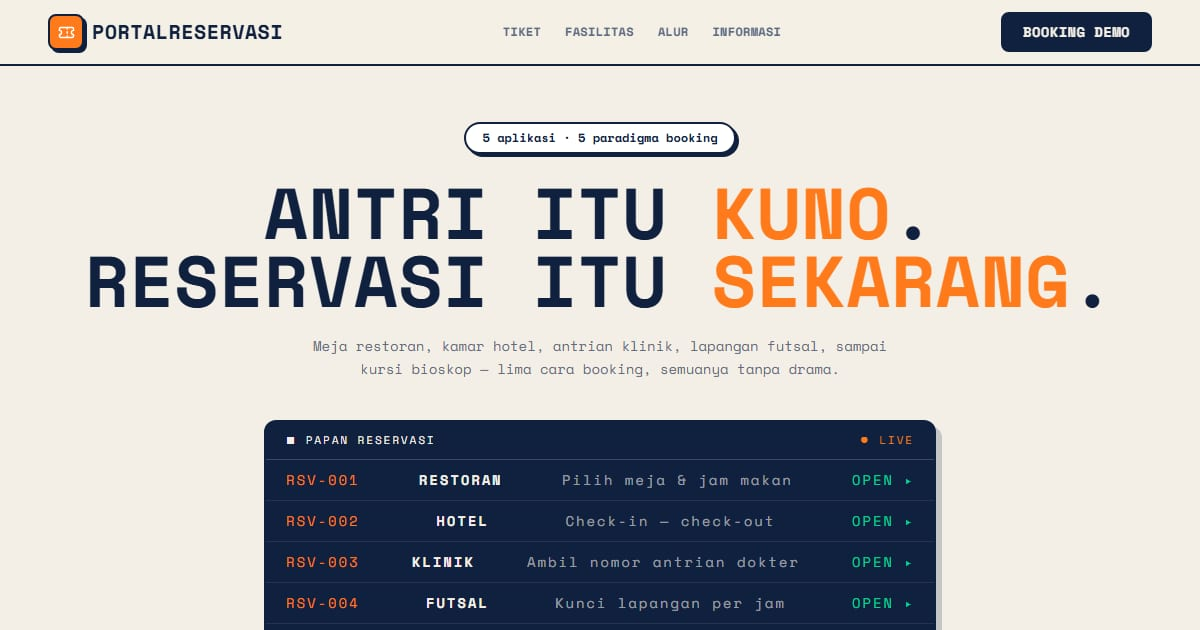
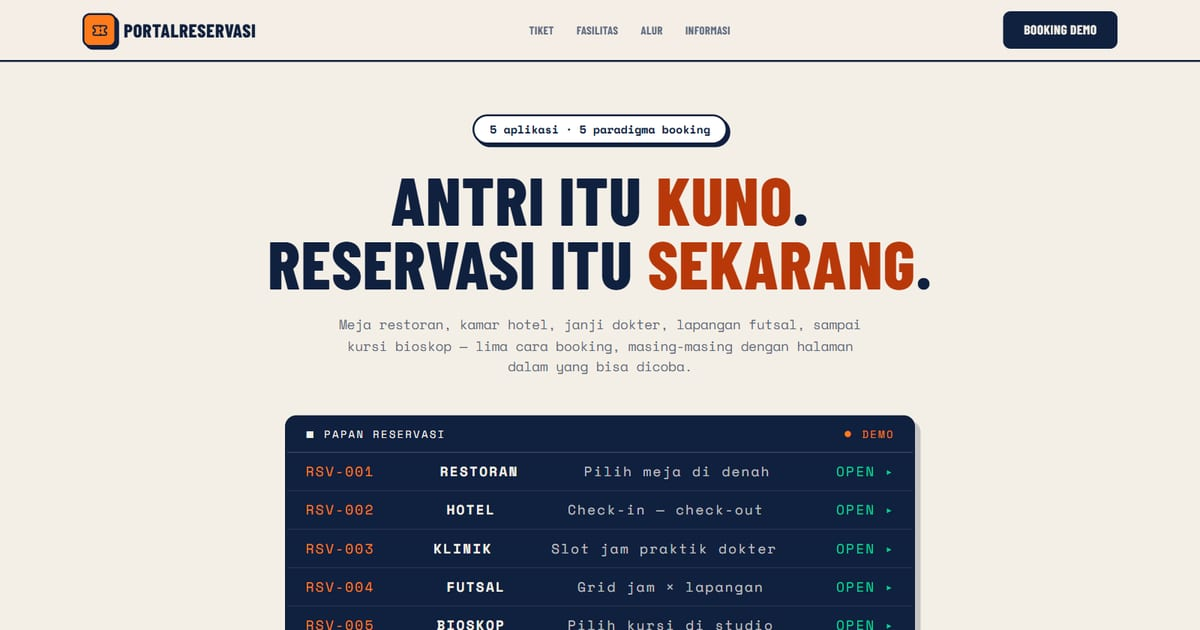
Perbarui katalog: merek baru, halaman dalam, klaim jujur, kontras
- Pratinjau 5 aplikasi diambil ulang (WebP), PNG lama dihapus
- Nama merek fiktif baru dan tautan "coba" ke halaman dalam tiap aplikasi
- Fasilitas & FAQ jujur soal demo: pesanan hanya di peramban, WhatsApp
  dan basis data bersama baru ada saat dipasang
- Teks oranye di latar terang memakai #b8380a, bidang oranye bertulisan
  navy; label berkedip "LIVE" diganti "DEMO" statis; font var ke <html>

diff --git a/app/page.js b/app/page.js
@@ -9,11 +9,11 @@ const WA = 'https://wa.me/6281339908765?text=Halo%2C%20saya%20tertarik%20aplikas
 
 const FASILITAS = [
   { icon: LayoutGrid, title: 'Denah Interaktif', desc: 'Tamu memilih meja, kursi, atau slot langsung dari denah visual — bukan menebak dari daftar.' },
-  { icon: CalendarCheck, title: 'Slot Real-Time', desc: 'Jadwal yang penuh otomatis tertutup. Tidak ada dobel booking, tidak ada drama.' },
-  { icon: BellRing, title: 'Konfirmasi Instan', desc: 'Begitu tamu memesan, detail reservasi langsung terkirim — rapi dan tercatat.' },
-  { icon: ShieldCheck, title: 'Validasi Pesanan', desc: 'Formulir memastikan data lengkap sebelum submit; tak ada reservasi setengah jadi.' },
-  { icon: BarChart3, title: 'Ringkasan Harian', desc: 'Kamu tahu berapa kursi terisi hari ini dalam sekali pandang.' },
-  { icon: Smartphone, title: 'Ramah Ponsel', desc: 'Tamu memesan sambil rebahan — alur selesai kurang dari satu menit.' },
+  { icon: CalendarCheck, title: 'Jam sesuai WIB', desc: 'Tanggal dan jam dihitung di perangkat tamu dalam WIB; slot yang sudah lewat otomatis tertutup.' },
+  { icon: BellRing, title: 'Konfirmasi dengan kode', desc: 'Setiap pesanan mendapat kode dan ringkasan. Saat dipasang, ringkasan itu bisa diteruskan ke WhatsApp atau email usahamu.' },
+  { icon: ShieldCheck, title: 'Aturan usaha', desc: 'Hari libur, hari praktik, tarif akhir pekan, batas kursi per transaksi — semuanya aturan di data, bukan hiasan.' },
+  { icon: BarChart3, title: 'Halaman "punya saya"', desc: 'Tamu melihat dan membatalkan pesanannya sendiri, lengkap dengan batas batal gratis.' },
+  { icon: Smartphone, title: 'Ramah ponsel', desc: 'Diuji di lebar 360 px — denah, grid jadwal, dan peta kursi tetap bisa dipakai.' },
 ];
 
 const BOARDING = [
@@ -24,8 +24,8 @@ const BOARDING = [
 ];
 
 const INFO = [
-  { q: 'Apakah reservasi masuk ke WhatsApp saya?', a: 'Ya. Setiap reservasi diteruskan sebagai pesan WhatsApp terstruktur (nama, tanggal, slot, jumlah) langsung ke nomormu — tanpa perlu buka dashboard.' },
-  { q: 'Bagaimana mencegah dobel booking?', a: 'Slot yang sudah diambil otomatis dikunci dan hilang dari pilihan. Kamu juga bisa menutup slot manual, misalnya untuk acara privat.' },
+  { q: 'Apakah reservasi masuk ke WhatsApp saya?', a: 'Di demo, pesanan hanya disimpan di peramban pengunjung — tidak ada yang dikirim. Saat dipasang untuk usahamu, kami sambungkan ke WhatsApp, email, atau basis data supaya setiap pesanan sampai ke kamu.' },
+  { q: 'Bagaimana mencegah dobel booking?', a: 'Di demo, slot yang sudah terisi tertutup di perangkat yang sama. Versi terpasang memakai basis data bersama, jadi slot yang diambil satu tamu langsung tertutup untuk semua tamu.' },
   { q: 'Bisakah jam operasional dan kapasitas diatur?', a: 'Bisa penuh: hari libur, jam buka-tutup, jumlah meja/kamar/lapangan, hingga durasi per sesi — semua mengikuti aturan usahamu.' },
   { q: 'Usaha saya tidak ada di lima kategori itu — tetap bisa?', a: 'Tetap bisa. Lima template ini adalah paradigma (denah, kalender, antrian, grid jadwal, kursi). Hampir semua bisnis booking cocok dengan salah satunya — kami sesuaikan istilah dan alurnya.' },
 ];
@@ -38,14 +38,14 @@ export default function PortalReservasi() {
       <header className="sticky top-0 z-40 border-b-2 border-navy bg-kremr/90 backdrop-blur-xl">
         <nav className="mx-auto flex max-w-6xl items-center justify-between px-4 py-3 sm:px-6">
           <a href="#top" className="flex items-center gap-2 font-display text-xl font-extrabold uppercase tracking-wide">
-            <span className="grid h-9 w-9 place-items-center rounded-lg border-2 border-navy bg-oranyer text-white shadow-[3px_3px_0_var(--color-navy)]"><Ticket size={17} /></span>
+            <span className="grid h-9 w-9 place-items-center rounded-lg border-2 border-navy bg-oranyer text-navy shadow-[3px_3px_0_var(--color-navy)]"><Ticket size={17} /></span>
             PortalReservasi
           </a>
           <div className="hidden items-center gap-6 font-display text-xs font-bold uppercase tracking-wide text-mutedr md:flex" role="navigation" aria-label="Navigasi">
-            <a href="#tiket" className="transition hover:text-oranyer">Tiket</a>
-            <a href="#fasilitas" className="transition hover:text-oranyer">Fasilitas</a>
-            <a href="#boarding" className="transition hover:text-oranyer">Alur</a>
-            <a href="#info" className="transition hover:text-oranyer">Informasi</a>
+            <a href="#tiket" className="transition hover:text-oranyer-ink">Tiket</a>
+            <a href="#fasilitas" className="transition hover:text-oranyer-ink">Fasilitas</a>
+            <a href="#boarding" className="transition hover:text-oranyer-ink">Alur</a>
+            <a href="#info" className="transition hover:text-oranyer-ink">Informasi</a>
           </div>
           <a href={WA} target="_blank" rel="noopener noreferrer" className="rounded-lg border-2 border-navy bg-navy px-5 py-2 font-display text-sm font-bold uppercase tracking-wide text-kremr transition hover:bg-oranyer">
             Booking Demo
@@ -61,24 +61,24 @@ export default function PortalReservasi() {
               5 aplikasi · 5 paradigma booking
             </span>
             <h1 className="mt-6 font-display text-5xl font-extrabold uppercase leading-[0.95] sm:text-7xl">
-              Antri itu <span className="text-oranyer">kuno</span>.<br />Reservasi itu <span className="text-oranyer">sekarang</span>.
+              Antri itu <span className="text-oranyer-ink">kuno</span>.<br />Reservasi itu <span className="text-oranyer-ink">sekarang</span>.
             </h1>
             <p className="mx-auto mt-5 max-w-xl text-sm leading-relaxed text-mutedr">
-              Meja restoran, kamar hotel, antrian klinik, lapangan futsal, sampai kursi bioskop — lima cara booking, semuanya tanpa drama.
+              Meja restoran, kamar hotel, janji dokter, lapangan futsal, sampai kursi bioskop — lima cara booking, masing-masing dengan halaman dalam yang bisa dicoba.
             </p>
           </motion.div>
 
           {/* Papan keberangkatan */}
           <motion.div initial={{ opacity: 0, y: 24 }} animate={{ opacity: 1, y: 0 }} transition={{ delay: 0.15, duration: 0.6 }} className="board mx-auto mt-10 max-w-2xl overflow-hidden rounded-xl border-2 border-navy shadow-[6px_6px_0_rgba(16,32,63,0.2)]">
             <div className="flex items-center justify-between border-b border-kremr/20 px-5 py-2.5 text-[11px] uppercase">
-              <span>■ Papan Reservasi</span><span className="blinkr text-oranyer">● LIVE</span>
+              <span>■ Papan Reservasi</span><span className="text-oranyer">● DEMO</span>
             </div>
             <div className="divide-y divide-kremr/10 text-sm">
               {templates.map((t, i) => (
                 <motion.a key={t.kode} href={`#${t.name.toLowerCase()}`} initial={{ opacity: 0 }} animate={{ opacity: 1 }} transition={{ delay: 0.4 + i * 0.12 }} className="flex items-center justify-between px-5 py-2.5 transition hover:bg-kremr/10">
                   <span className="text-oranyer">{t.kode}</span>
                   <span className="font-bold uppercase">{t.name}</span>
-                  <span className="hidden text-kremr/60 sm:block">{t.paradigma}</span>
+                  <span className="hidden text-kremr/75 sm:block">{t.paradigma}</span>
                   <span className="text-emerald-400">OPEN ▸</span>
                 </motion.a>
               ))}
@@ -107,11 +107,11 @@ export default function PortalReservasi() {
               className="tiket grid md:grid-cols-[1.15fr_0.85fr]"
             >
               {/* Preview (badan tiket) */}
-              <a href={t.url} className="group relative block overflow-hidden rounded-t-[0.9rem] border-b-2 border-dashed border-navy/35 md:rounded-l-[0.9rem] md:rounded-tr-none md:border-b-0 md:border-r-2" aria-label={`Demo ${t.name}`}>
+              <a href={t.url} className="group relative block overflow-hidden rounded-t-[0.9rem] border-b-2 border-dashed border-navy/35 md:rounded-l-[0.9rem] md:rounded-tr-none md:border-b-0 md:border-r-2" aria-label={`Buka demo ${t.merek}`}>
                 <div className="relative aspect-[16/10] md:h-full md:min-h-[290px]">
-                  <Image src={t.image} alt={`Preview aplikasi ${t.name}`} fill sizes="(max-width:768px) 100vw, 55vw" className="object-cover object-top transition duration-500 group-hover:scale-[1.02]" priority={i === 0} />
+                  <Image src={t.image} alt="" fill sizes="(max-width:768px) 100vw, 55vw" className="object-cover object-top transition duration-500 group-hover:scale-[1.02]" priority={i === 0} />
                 </div>
-                <span className="absolute left-4 top-4 rounded-md border-2 border-navy bg-oranyer px-2.5 py-1 font-display text-xs font-bold uppercase text-white">{t.emoji} {t.name}</span>
+                <span className="absolute left-4 top-4 rounded-md border-2 border-navy bg-oranyer px-2.5 py-1 font-display text-xs font-bold uppercase text-navy">{t.emoji} {t.name}</span>
               </a>
 
               {/* Stub tiket */}
@@ -120,8 +120,8 @@ export default function PortalReservasi() {
                   <div className="flex items-center justify-between text-[11px] uppercase text-mutedr">
                     <span>{t.kode}</span><span>Boarding · Web App</span>
                   </div>
-                  <h2 className="mt-2 font-display text-3xl font-extrabold uppercase">{t.name}</h2>
-                  <p className="font-bold text-oranyer">{t.paradigma}</p>
+                  <h2 className="mt-2 font-display text-3xl font-extrabold uppercase">{t.merek}</h2>
+                  <p className="font-bold text-oranyer-ink">{t.paradigma}</p>
                   <p className="mt-3 text-sm leading-relaxed text-mutedr">{t.description}</p>
                   <div className="mt-4 grid grid-cols-2 gap-3 text-center">
                     {[t.detail.kolom1, t.detail.kolom2].map(([k, v]) => (
@@ -131,6 +131,11 @@ export default function PortalReservasi() {
                       </div>
                     ))}
                   </div>
+                  <ul className="mt-4 flex flex-wrap gap-2" aria-label={`Halaman ${t.merek}`}>
+                    {t.halaman.map(([href, label]) => (
+                      <li key={href}><a href={t.url + href} className="inline-flex items-center gap-1 rounded-md border border-navy/30 px-2.5 py-1 text-xs font-bold transition hover:border-oranyer-ink hover:text-oranyer-ink">{label} <ArrowUpRight size={12} aria-hidden="true" /></a></li>
+                    ))}
+                  </ul>
                 </div>
                 <div className="perf mt-5 flex items-center justify-between pt-4">
                   <div className="flex gap-1" aria-hidden="true">
@@ -150,8 +155,8 @@ export default function PortalReservasi() {
       <section id="fasilitas" className="scroll-mt-20 border-t-2 border-navy bg-white px-4 py-16 sm:px-6 lg:py-20">
         <div className="mx-auto max-w-6xl">
           <div className="text-center">
-            <p className="font-display text-xs font-bold uppercase tracking-[0.3em] text-oranyer">Fasilitas Terminal</p>
-            <h2 className="mt-3 font-display text-3xl font-extrabold uppercase sm:text-4xl">Semua penerbangan <span className="text-oranyer">full service</span></h2>
+            <p className="font-display text-xs font-bold uppercase tracking-[0.3em] text-oranyer-ink">Fasilitas Terminal</p>
+            <h2 className="mt-3 font-display text-3xl font-extrabold uppercase sm:text-4xl">Semua penerbangan <span className="text-oranyer-ink">full service</span></h2>
             <p className="mx-auto mt-4 max-w-xl text-sm leading-relaxed text-mutedr">Apapun paradigma yang kamu pilih, fitur intinya sama lengkap.</p>
           </div>
           <div className="mt-12 grid grid-cols-1 gap-5 sm:grid-cols-2 lg:grid-cols-3">
@@ -177,8 +182,8 @@ export default function PortalReservasi() {
       <section id="boarding" className="scroll-mt-20 px-4 py-16 sm:px-6 lg:py-20">
         <div className="mx-auto max-w-6xl">
           <div className="text-center">
-            <p className="font-display text-xs font-bold uppercase tracking-[0.3em] text-oranyer">Alur Boarding</p>
-            <h2 className="mt-3 font-display text-3xl font-extrabold uppercase sm:text-4xl">Empat gerbang menuju <span className="text-oranyer">lepas landas</span></h2>
+            <p className="font-display text-xs font-bold uppercase tracking-[0.3em] text-oranyer-ink">Alur Boarding</p>
+            <h2 className="mt-3 font-display text-3xl font-extrabold uppercase sm:text-4xl">Empat gerbang menuju <span className="text-oranyer-ink">lepas landas</span></h2>
           </div>
           <div className="relative mt-14 grid grid-cols-1 gap-8 sm:grid-cols-2 lg:grid-cols-4">
             <span className="absolute left-0 right-0 top-7 hidden border-t-2 border-dashed border-navy/30 lg:block" aria-hidden="true" />
@@ -191,8 +196,8 @@ export default function PortalReservasi() {
                 transition={{ duration: 0.45, delay: i * 0.1 }}
                 className="relative text-center"
               >
-                <span className="relative z-10 mx-auto grid h-14 w-14 place-items-center rounded-xl border-2 border-navy bg-oranyer text-white shadow-[4px_4px_0_var(--color-navy)]"><b.icon size={22} /></span>
-                <p className="mt-3 font-display text-[11px] font-bold uppercase tracking-[0.25em] text-oranyer">{b.no}</p>
+                <span className="relative z-10 mx-auto grid h-14 w-14 place-items-center rounded-xl border-2 border-navy bg-oranyer text-navy shadow-[4px_4px_0_var(--color-navy)]"><b.icon size={22} /></span>
+                <p className="mt-3 font-display text-[11px] font-bold uppercase tracking-[0.25em] text-oranyer-ink">{b.no}</p>
                 <h3 className="mt-1 font-display text-lg font-extrabold uppercase">{b.title}</h3>
                 <p className="mx-auto mt-1.5 max-w-[15rem] text-sm leading-relaxed text-mutedr">{b.desc}</p>
               </motion.div>
@@ -205,17 +210,17 @@ export default function PortalReservasi() {
       <section id="info" className="scroll-mt-20 border-t-2 border-navy bg-white px-4 py-16 sm:px-6 lg:py-20">
         <div className="mx-auto max-w-3xl">
           <div className="text-center">
-            <p className="font-display text-xs font-bold uppercase tracking-[0.3em] text-oranyer">Pusat Informasi</p>
-            <h2 className="mt-3 font-display text-3xl font-extrabold uppercase sm:text-4xl">Sebelum <span className="text-oranyer">take-off</span></h2>
+            <p className="font-display text-xs font-bold uppercase tracking-[0.3em] text-oranyer-ink">Pusat Informasi</p>
+            <h2 className="mt-3 font-display text-3xl font-extrabold uppercase sm:text-4xl">Sebelum <span className="text-oranyer-ink">take-off</span></h2>
           </div>
           <div className="mt-10 space-y-4">
             {INFO.map((t, i) => {
               const open = buka === i;
               return (
                 <div key={t.q} className={`rounded-xl border-2 border-navy bg-kremr transition ${open ? 'shadow-[5px_5px_0_rgba(232,93,38,0.5)]' : 'shadow-[4px_4px_0_rgba(16,32,63,0.15)]'}`}>
-                  <button onClick={() => setBuka(open ? -1 : i)} aria-expanded={open} className="flex w-full items-center justify-between gap-4 px-6 py-4 text-left">
+                  <button type="button" onClick={() => setBuka(open ? -1 : i)} aria-expanded={open} className="flex w-full items-center justify-between gap-4 px-6 py-4 text-left">
                     <span className="font-display text-base font-extrabold leading-snug">{t.q}</span>
-                    <span className={`grid h-7 w-7 shrink-0 place-items-center rounded-md border-2 border-navy transition ${open ? 'rotate-180 bg-oranyer text-white' : 'bg-white'}`}>
+                    <span className={`grid h-7 w-7 shrink-0 place-items-center rounded-md border-2 border-navy transition ${open ? 'rotate-180 bg-oranyer text-navy' : 'bg-white'}`}>
                       <ChevronDown size={15} />
                     </span>
                   </button>
@@ -236,8 +241,8 @@ export default function PortalReservasi() {
         <motion.div initial={{ opacity: 0, y: 18 }} whileInView={{ opacity: 1, y: 0 }} viewport={{ once: true }} transition={{ duration: 0.5 }} className="mx-auto max-w-xl">
           <p className="text-xs uppercase tracking-[0.3em] text-oranyer">Now boarding</p>
           <h2 className="mt-3 font-display text-4xl font-extrabold uppercase leading-tight md:text-5xl">Bisnismu berikutnya yang dipanggil</h2>
-          <p className="mt-4 text-sm text-kremr/60">Sistem reservasi custom untuk usahamu — mulai dari template ini.</p>
-          <a href={WA} target="_blank" rel="noopener noreferrer" className="mt-8 inline-flex items-center gap-2 rounded-lg bg-oranyer px-8 py-4 font-display text-sm font-bold uppercase tracking-wide text-white transition hover:scale-[1.03] active:scale-95">
+          <p className="mt-4 text-sm text-kremr/80">Sistem reservasi untuk usahamu — mulai dari salah satu paradigma ini.</p>
+          <a href={WA} target="_blank" rel="noopener noreferrer" className="mt-8 inline-flex items-center gap-2 rounded-lg bg-oranyer px-8 py-4 font-display text-sm font-bold uppercase tracking-wide text-navy transition hover:scale-[1.03] active:scale-95">
             <MessageCircle size={16} /> Chat WhatsApp
           </a>
         </motion.div>
@@ -247,7 +252,7 @@ export default function PortalReservasi() {
         <div className="mx-auto grid max-w-6xl grid-cols-1 gap-8 text-center sm:grid-cols-3 sm:text-left">
           <div>
             <p className="flex items-center justify-center gap-2 font-display text-lg font-extrabold uppercase tracking-wide text-kremr sm:justify-start">
-              <span className="grid h-8 w-8 place-items-center rounded-md bg-oranyer text-white"><Ticket size={15} /></span>
+              <span className="grid h-8 w-8 place-items-center rounded-md bg-oranyer text-navy"><Ticket size={15} /></span>
               PortalReservasi
             </p>
             <p className="mt-2 text-sm leading-relaxed">Lima paradigma booking untuk restoran, hotel, klinik, futsal, dan bioskop.</p>
@@ -269,7 +274,7 @@ export default function PortalReservasi() {
             </ul>
           </div>
         </div>
-        <p className="mt-10 border-t border-kremr/10 pt-5 text-center text-[11px] text-kremr/40">
+        <p className="mt-10 border-t border-kremr/10 pt-5 text-center text-[11px] text-kremr/70">
           © {new Date().getFullYear()} PortalReservasi · bagian dari PintuWeb — no show, no cry.
         </p>
       </footer>

diff --git a/app/components/templates-data.js b/app/components/templates-data.js
@@ -1,37 +1,43 @@
+// Data 5 aplikasi reservasi. `halaman` = halaman dalam yang bisa dicoba langsung.
 export const templates = [
   {
-    kode: 'RSV-001', name: 'Restoran', emoji: '🍽',
-    paradigma: 'Pilih meja & jam makan',
-    description: 'Reservasi meja dengan denah interaktif — pilih meja favorit, tentukan jam, konfirmasi instan.',
-    image: '/images/r1.png', url: 'https://reservasi-restoran-gilt.vercel.app',
-    detail: { kolom1: ['GATE', 'MEJA'], kolom2: ['MODE', 'DINE-IN'] },
+    kode: 'RSV-001', name: 'Restoran', merek: 'Pawon Lirih', emoji: '🍽',
+    paradigma: 'Pilih meja di denah',
+    description: 'Masakan rumahan Jawa di Yogyakarta. Pilih hari, jam, dan jumlah tamu, lalu klik meja yang kosong — lengkap dengan zona dan kapasitas meja.',
+    image: '/images/rsv/restoran.webp', url: 'https://reservasi-restoran-gilt.vercel.app',
+    detail: { kolom1: ['MEJA', 'T6'], kolom2: ['TAMU', '6'] },
+    halaman: [['/menu', 'Menu'], ['/rombongan', 'Rombongan'], ['/reservasi', 'Reservasi saya']],
   },
   {
-    kode: 'RSV-002', name: 'Hotel', emoji: '🛎',
+    kode: 'RSV-002', name: 'Hotel', merek: 'Tanjung Lengkung', emoji: '🛎',
     paradigma: 'Check-in — check-out',
-    description: 'Booking kamar dengan rentang tanggal, tipe kamar, dan ringkasan biaya menginap yang jelas.',
-    image: '/images/r2.png', url: 'https://reservasi-hotel-kappa.vercel.app',
+    description: 'Penginapan kecil di pesisir timur Lombok. Ketersediaan dihitung per malam, tarif akhir pekan terpisah, rincian pajak & layanan jelas.',
+    image: '/images/rsv/hotel.webp', url: 'https://reservasi-hotel-kappa.vercel.app',
     detail: { kolom1: ['IN', '14:00'], kolom2: ['OUT', '12:00'] },
+    halaman: [['/kamar', 'Kamar & vila'], ['/kamar/vila', 'Vila Kolam'], ['/pesanan', 'Pesanan saya']],
   },
   {
-    kode: 'RSV-003', name: 'Klinik', emoji: '🩺',
-    paradigma: 'Ambil nomor antrian dokter',
-    description: 'Pilih dokter & jadwal praktik, dapatkan nomor antrian — tanpa menunggu di ruang tunggu.',
-    image: '/images/r3.png', url: 'https://reservasi-klinik-rose.vercel.app',
-    detail: { kolom1: ['POLI', 'UMUM'], kolom2: ['NO.', 'A-17'] },
+    kode: 'RSV-003', name: 'Klinik', merek: 'Klinik Rumpun Waras', emoji: '🩺',
+    paradigma: 'Slot jam praktik dokter',
+    description: 'Klinik keluarga. Pilih dokter, lalu tanggal di hari praktiknya dan slot 30 menit yang kosong — dapat nomor urut dan daftar persiapan.',
+    image: '/images/rsv/klinik.webp', url: 'https://reservasi-klinik-rose.vercel.app',
+    detail: { kolom1: ['POLI', 'ANAK'], kolom2: ['NO.', '04'] },
+    halaman: [['/dokter', 'Jadwal dokter'], ['/?dokter=d3', 'Dokter gigi'], ['/janji', 'Janji saya']],
   },
   {
-    kode: 'RSV-004', name: 'Futsal', emoji: '⚽',
-    paradigma: 'Kunci lapangan per jam',
-    description: 'Grid jadwal lapangan per jam — lihat slot kosong, kunci jam main bareng tim langsung.',
-    image: '/images/r4.png', url: 'https://reservasi-futsal.vercel.app',
-    detail: { kolom1: ['COURT', 'A'], kolom2: ['SLOT', '19:00'] },
+    kode: 'RSV-004', name: 'Futsal', merek: 'Gelanggang Petang', emoji: '⚽',
+    paradigma: 'Grid jam × lapangan',
+    description: 'Tiga lapangan indoor. Harga sore, jam emas, dan malam tampil di tiap kotak; pilih sampai empat jam sekaligus, atau cari lawan sparring.',
+    image: '/images/rsv/futsal.webp', url: 'https://reservasi-futsal.vercel.app',
+    detail: { kolom1: ['COURT', 'B'], kolom2: ['SLOT', '19:00'] },
+    halaman: [['/harga', 'Harga & aturan'], ['/sparring', 'Cari lawan'], ['/jadwal-saya', 'Jadwal saya']],
   },
   {
-    kode: 'RSV-005', name: 'Bioskop', emoji: '🎬',
+    kode: 'RSV-005', name: 'Bioskop', merek: 'Bioskop Kelir', emoji: '🎬',
     paradigma: 'Pilih kursi di studio',
-    description: 'Seat-picker studio bioskop — pilih film, jam tayang, dan kursi favoritmu baris demi baris.',
-    image: '/images/r5.png', url: 'https://reservasi-bioskop.vercel.app',
-    detail: { kolom1: ['STUDIO', '2'], kolom2: ['SEAT', 'F-07'] },
+    description: 'Bioskop satu layar dengan 96 kursi. Program tayang harian tanpa jam bertumpuk, lalu pilih kursi baris demi baris.',
+    image: '/images/rsv/bioskop.webp', url: 'https://reservasi-bioskop.vercel.app',
+    detail: { kolom1: ['STUDIO', '1'], kolom2: ['SEAT', 'E-07'] },
+    halaman: [['/film', 'Sedang tayang'], ['/film/gerhana-terakhir', 'Detail film'], ['/tiket', 'Tiket saya']],
   },
 ];

diff --git a/app/layout.js b/app/layout.js
@@ -10,7 +10,7 @@ const __jsonld = {"@context":"https://schema.org","@type":"CollectionPage","name
 export const metadata = {
   metadataBase: new URL("https://portal-reservasi-nu.vercel.app"),
   title: "PortalReservasi — Lima Cara Mengambil Antrian",
-  description: "PortalReservasi: 5 aplikasi booking dengan paradigma berbeda — restoran, hotel, klinik, futsal, dan bioskop.",
+  description: "Lima aplikasi reservasi dengan paradigma berbeda: denah meja restoran, rentang tanggal hotel, slot praktik dokter, grid lapangan futsal, dan peta kursi bioskop.",
   applicationName: "PortalReservasi",
   keywords: ["template booking", "aplikasi reservasi", "sistem booking", "koleksi template reservasi"],
   authors: [{ name: "PortalReservasi" }],
@@ -23,13 +23,13 @@ export const metadata = {
     url: "https://portal-reservasi-nu.vercel.app",
     siteName: "PortalReservasi",
     title: "PortalReservasi — Lima Cara Mengambil Antrian",
-    description: "PortalReservasi: 5 aplikasi booking dengan paradigma berbeda — restoran, hotel, klinik, futsal, dan bioskop.",
+    description: "Lima aplikasi reservasi dengan paradigma berbeda: denah meja restoran, rentang tanggal hotel, slot praktik dokter, grid lapangan futsal, dan peta kursi bioskop.",
     images: [{ url: "/og.jpg", width: 1200, height: 630, alt: "PortalReservasi — Lima Cara Mengambil Antrian" }],
   },
   twitter: {
     card: "summary_large_image",
     title: "PortalReservasi — Lima Cara Mengambil Antrian",
-    description: "PortalReservasi: 5 aplikasi booking dengan paradigma berbeda — restoran, hotel, klinik, futsal, dan bioskop.",
+    description: "Lima aplikasi reservasi dengan paradigma berbeda: denah meja restoran, rentang tanggal hotel, slot praktik dokter, grid lapangan futsal, dan peta kursi bioskop.",
     images: ["/og.jpg"],
   },
   robots: {
@@ -41,8 +41,8 @@ export const metadata = {
 
 export default function RootLayout({ children }) {
   return (
-    <html lang="id">
-      <body className={`${barlow.variable} ${spacemono.variable} antialiased`}>
+    <html lang="id" className={`${barlow.variable} ${spacemono.variable}`}>
+      <body className="antialiased">
         <main>{children}</main>
       <script type="application/ld+json" dangerouslySetInnerHTML={{ __html: JSON.stringify(__jsonld) }} />
         </body>

diff --git a/app/globals.css b/app/globals.css
@@ -7,6 +7,7 @@
   --color-navy: #10203f;
   --color-kremr: #f4efe6;
   --color-oranyer: #ff7a1a;
+  --color-oranyer-ink: #b8380a;
   --color-mutedr: #5f6b81;
 }
 
